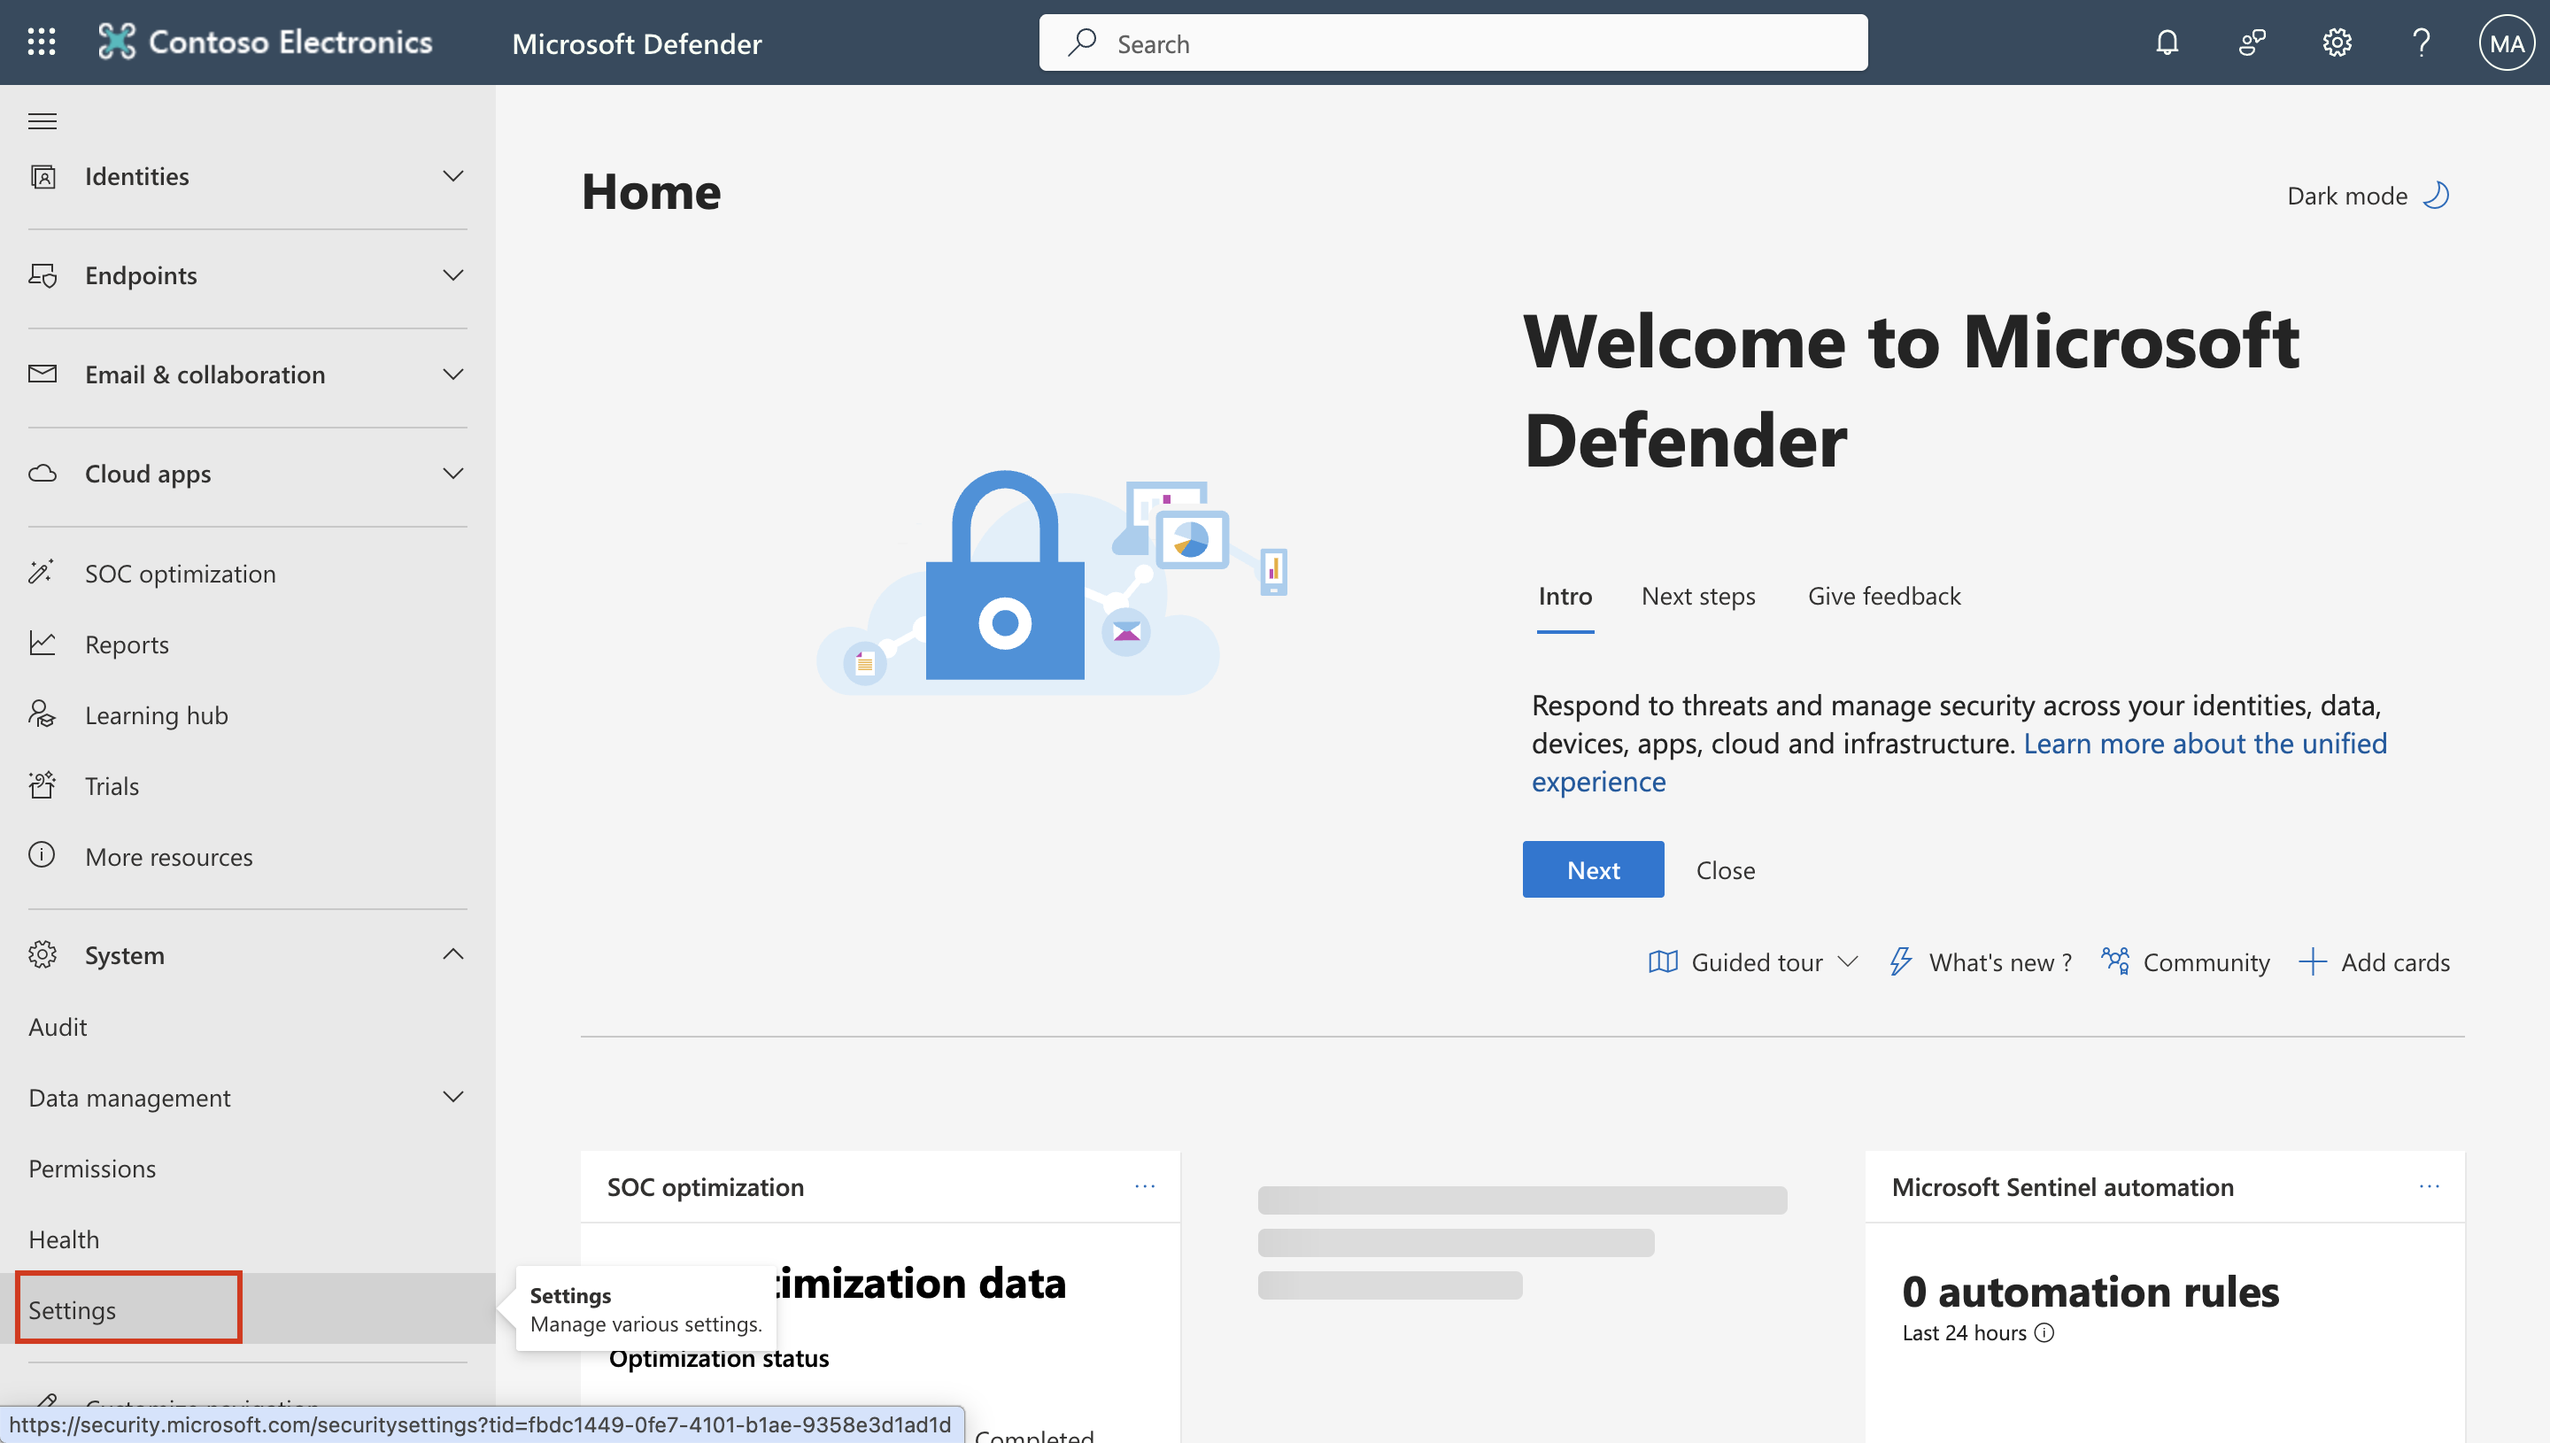
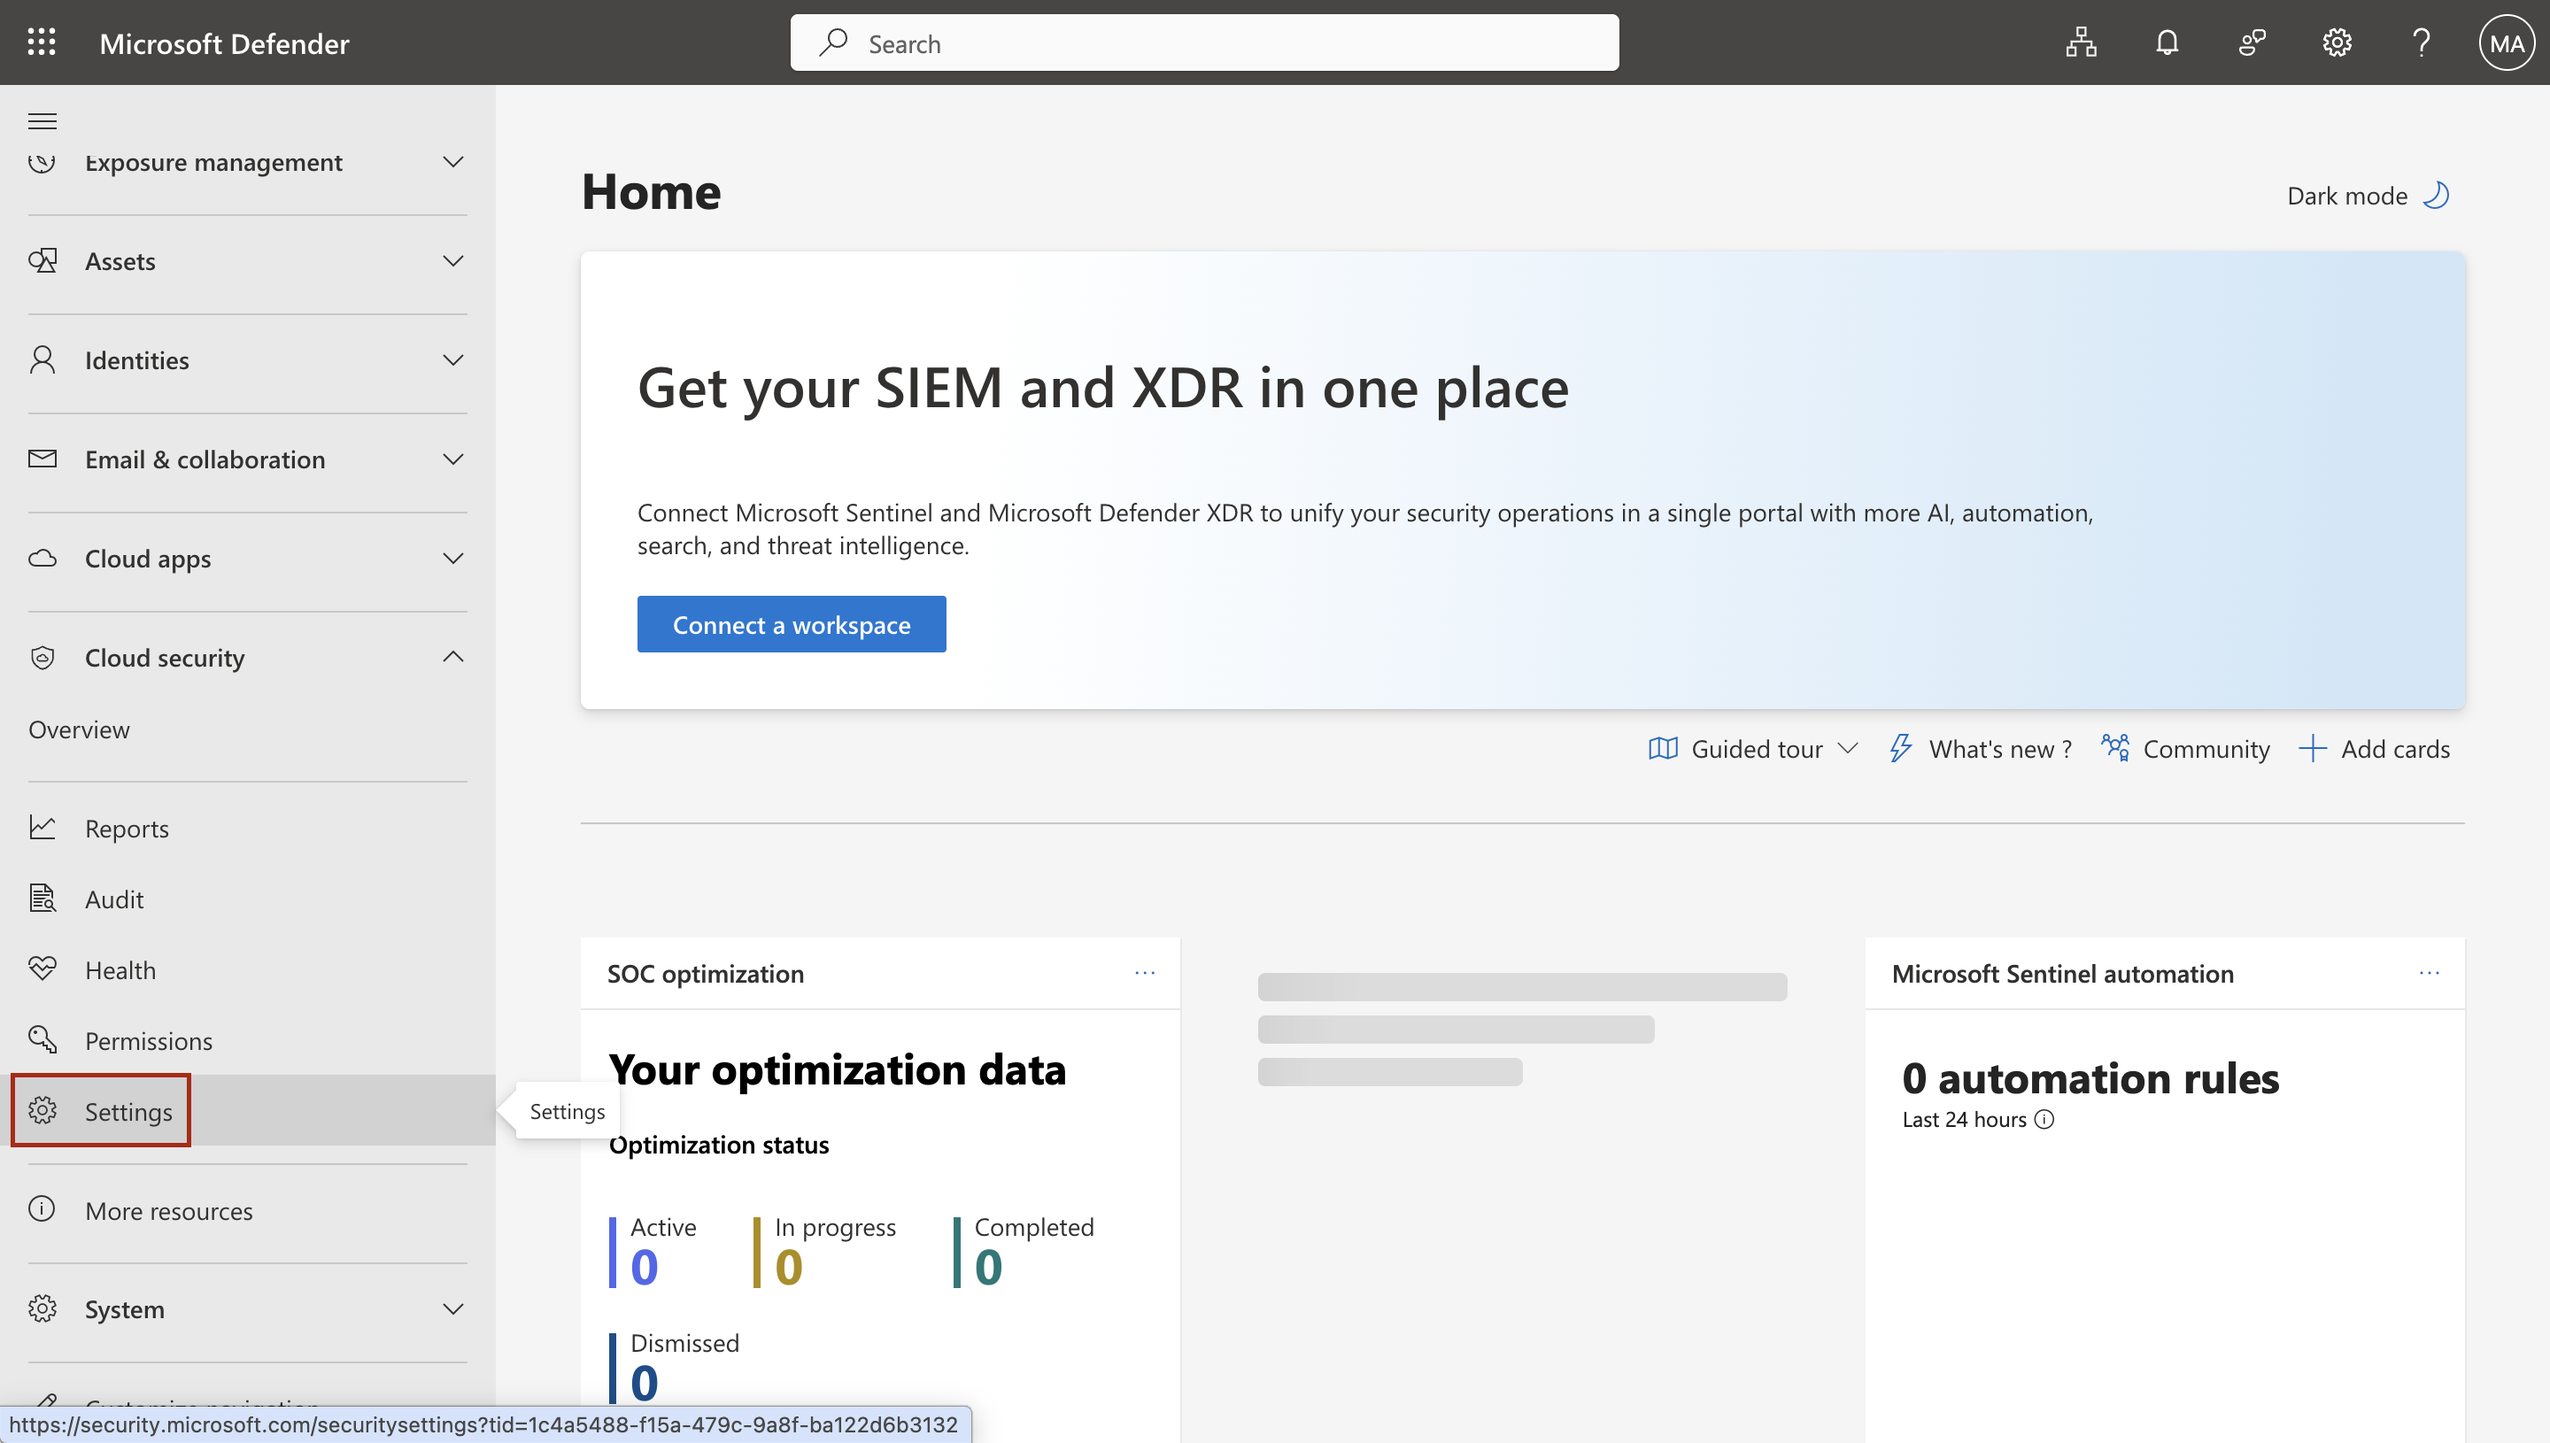
Lab 01 Images Updated

diff --git a/Lab 01/Lab_01_Agent_Discovery_and_Registry_Management.md b/Lab 01/Lab_01_Agent_Discovery_and_Registry_Management.md
@@ -67,7 +67,7 @@ Estimated time: **20 minutes**
 
 	![](./media/image5.png)
 
-5. Under **Select users or groups who will have the agent pre-installed (optional)**, select **All users**.
+5. Under **Select users or groups who will have the agent pre-installed (optional)**, select **Specific users/groups**.
 
 	![](./media/image6.png)
 
@@ -259,7 +259,7 @@ Estimated time: **20 minutes**
 
 ### Task 2: Configure Defender for Cloud Apps Organisation Details
 
-1. In the Microsoft Defender portal at `https://security.microsoft.com`, in the left navigation pane, select **Settings** under **System**.
+1. In the Microsoft Defender portal at `https://security.microsoft.com`, in the left navigation pane, select **Settings**.
 
 	![](./media/image36.png)
 
@@ -269,28 +269,58 @@ Estimated time: **20 minutes**
 
 3. Select **Organisation details**.
 
+	![](./media/image38.png)
+
 4. On the **Organisation details** page, in the **Organisation display name** field, enter `Zava Corporation`.
 
-5. In the **Environment name** field, enter `Zava-Prod`.
+5. In the **Environment name** field, enter `Dev One`.
 
 6. In the **Managed domains** field, enter your tenant's primary domain in the following format:
-   `[TenantName].onmicrosoft.com`
+   `[TenantPrefix].onmicrosoft.com`
 
-   > **Note:** Replace `[TenantName]` with your tenant prefix from the **Resources** tab. Adding managed domains ensures that internal users are correctly identified in Cloud Apps reports and alerts.
+   > **Note:** Replace `[TenantPrefix]` with your tenant prefix from the **Resources** tab. Adding managed domains ensures that internal users are correctly identified in Cloud Apps reports and alerts.
 
 7. Select **Save**.
 
+	![](./media/image39.png)
+
 8. Confirm that a success notification appears confirming that the settings were saved.
+
+	![](./media/image40.png)
 
 ---
 
-### Task 3: Connect the Microsoft 365 App Connector
+### Task 3: Enable File Monitoring in Defender for Cloud Apps
 
-1. In the Microsoft Defender portal, in the left navigation pane, select **Settings** under **System**.
+1. In the Microsoft Defender portal, in the left navigation pane, select **Settings**.
+
+	![](./media/image36.png)
 
 2. On the **Settings** page, select **Cloud Apps**.
 
+	![](./media/image37.png)
+
+3. Under **Information Protection**, select **Files**. On the **Files** page, select the **Enable file monitoring** checkbox. Select **Save**.
+
+	![](./media/image46.png)
+
+5. Confirm that a success notification appears confirming that file monitoring was enabled.
+
+---
+
+### Task 4: Connect the Microsoft 365 App Connector
+
+1. In the Microsoft Defender portal, in the left navigation pane, select **Settings**.
+
+	![](./media/image36.png)
+
+2. On the **Settings** page, select **Cloud Apps**.
+
+	![](./media/image37.png)
+
 3. Under **Connected apps**, select **App Connectors**.
+
+	![](./media/image41.png)
 
 4. On the **App Connectors** page, select **+ Connect an app**.
 
@@ -298,33 +328,25 @@ Estimated time: **20 minutes**
 
 6. On the **Select Microsoft 365 components** page, confirm that all components are selected by default. If any component is deselected, select it to enable it.
 
-7. Select **Connect**.
+7. Select **Connect Microsoft 365**.
 
-8. Wait for the connection to complete.
+	![](./media/image42.png)
+
+8. Wait for the connection to complete. Then slect **Done**.
+
+	![](./media/image43.png)
 
 9. On the **App Connectors** page, confirm that **Microsoft 365** appears in the connectors list with a status of **Connected**.
 
 10. On the **App Connectors** page, select the checkbox next to **Microsoft 365** and from the top options select **Connect Microsoft Azure Instance**.
 
-11. Wait for the connection to complete.
+	![](./media/image44.png)
+
+11. Select **Connect Microsoft Azure**. Wait for the connection to complete.
+
+	![](./media/image45.png)
 
     > **Note:** After connecting, Defender for Cloud Apps begins scanning Microsoft 365 activity. Initial data from the past week will appear in the portal. The first full scan may take several hours depending on tenant size. This connector is required for activity monitoring, DLP policy enforcement, and alert generation in Day 2 and Day 3 labs.
-
----
-
-### Task 4: Enable File Monitoring in Defender for Cloud Apps
-
-1. In the Microsoft Defender portal, in the left navigation pane, select **Settings**.
-
-2. On the **Settings** page, select **Cloud Apps**.
-
-3. Under **Information Protection**, select **Files**.
-
-4. On the **Files** page, select the **Enable file monitoring** checkbox.
-
-5. Select **Save**.
-
-6. Confirm that a success notification appears confirming that file monitoring was enabled.
 
 ---
 
